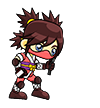
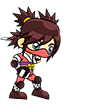
projeto mvp concluido

diff --git a/JS/canvas.js b/JS/canvas.js
@@ -1,17 +1,47 @@
 console.log('Salve!!!')
 let fundoImg = new Image();
 let playerImg = new Image();
+playerImg.src = '../Img/Attack__000.png';
 let enemyImg = new Image();
+let lifeImg = new Image();
+let attackImg = new Image();
+let gameOverimg= new Image();
+attackImg.src = '../Img/Attack__001.png'
 const canvas = document.getElementById('canvas');
 const context = canvas.getContext('2d');
 const enemies =[];
+let attackstatus = false;
+let zumbiswin = 0
+let frame = 0;
+let myReq;
 
 
 
 function fundo(){
     fundoImg.src = "../Img/fundo.jpg";
-    context.drawImage(fundoImg, 0, 0);  
+    context.drawImage(fundoImg, 0, 0); 
 }
+
+function drawLife(){
+  lifeImg.src='../Img/hearts.png';
+    context.drawImage(lifeImg,50,30)
+    lifeImg.src='../Img/hearts.png';
+    context.drawImage(lifeImg,150,30)
+    lifeImg.src='../Img/hearts.png';
+    context.drawImage(lifeImg,250,30)
+}
+
+function score() {
+  var points = Math.floor(frame / 10);
+  context.font = "18px serif";
+  context.fillStyle = "black";
+  context.fillText("Score: " + points, 700, 50);
+}
+
+  function drawGameOver(){
+    gameOverimg.src='../Img/gameover.png';
+    context.drawImage(gameOverimg, 0, 0)
+  }
 
 let ninja = new Ninja(300,400,80,107);
 
@@ -31,7 +61,7 @@ switch (e.keyCode) {
             ninja.eixoX = 5;
             console.log('Bateu!')
         } else {
-            ninja.eixoX -= 3;
+            ninja.eixoX -= 18;
         } console.log('left')
           break;
         case 39: // right arrow
@@ -42,22 +72,67 @@ switch (e.keyCode) {
         //     ninja.eixoX - enemy.eixoY;
         }
         else {
-            ninja.eixoX += 3;
+            ninja.eixoX += 10;
         } console.log('right')
           break;
+        case 32 : //space
+        attack()
+        break;
       }
       }
 
+function attack(){
+  attackstatus = true;
+  enemies.forEach(function(zumbi,idx){
+  if(zumbi.eixoX <= ninja.eixoX +110 && zumbi.eixoX >= ninja.eixoX +45){
+     zumbi.receiveDamage()
+     console.log(zumbi.life)
+     console.log(attackstatus)
+  }
+});
+  // attackstatus = false;
+}
 
-let frame = 0;
+function death(){
+  enemies.forEach(function(zumbi,idx){
+    if (zumbi.life == 0){
+      zumbi.eixoX = 1000
+    }
+  })
+}
+
+function gameOver(){
+  enemies.forEach(function(zumbi,idx){
+    if (zumbi.eixoX < -49 ){
+      zumbiswin +=1
+    }
+  });
+  if (zumbiswin >= 2){
+    console.log('GAME OVER')
+    drawGameOver()
+    return
+    cancelAnimationFrame(myReq);
+  }
+}
+
+
+
+
 
 function updateGameArea() {
+  console.log('Oii')
     fundo();
-    ninja.drawPlayer();
-    if(frame % 120 === 0){
+    drawLife();
+    if(attackstatus){
+      ninja.drawAttack();
+    } else {
+      ninja.drawPlayer(playerImg)
+    }
+    attackstatus = false
+    if(frame % 360 === 0){
         enemies.push(new Enemy(canvas.width,400,90,107));
     };
-    console.log(updateGameArea)
+    // console.log(updateGameArea)
     enemies.forEach(function(zumbi,idx) {
         zumbi.drawEnemy();
         zumbi.moving();
@@ -66,9 +141,11 @@ function updateGameArea() {
         }
     });
     
-    frame += 1;
-    requestAnimationFrame(updateGameArea);
+    frame += 2;
+    score()    
+    death()
+    myReq = requestAnimationFrame(updateGameArea);
+    gameOver()
   }
 
-  requestAnimationFrame(updateGameArea);
-  
+  myReq = requestAnimationFrame(updateGameArea);

diff --git a/JS/Ninja.js b/JS/Ninja.js
@@ -6,10 +6,13 @@ class Ninja{
         this.height = height;
     }
 
-    drawPlayer(){
-        playerImg.src = '../Img/Attack__000.png'
-        context.drawImage(playerImg, 0, 0, 70, this.height, this.eixoX, this.eixoY,this.width,this.height);
+    drawPlayer(imagem){
+        context.drawImage(imagem, 0, 0, 70, this.height, this.eixoX, this.eixoY,this.width,this.height);
      } 
+    drawAttack(){
+        attackImg.src = '../Img/Attack__001.png'
+        context.drawImage(attackImg, 0, 0, 70, this.height, this.eixoX, this.eixoY,this.width,this.height);
+    }
     
 }
 

diff --git a/JS/enemy.js b/JS/enemy.js
@@ -4,6 +4,8 @@ class Enemy{
         this.eixoY = y;
         this.width = width;
         this.height = height;
+        this.life = 3;
+
     }
 
     drawEnemy(){
@@ -11,7 +13,12 @@ class Enemy{
         context.drawImage(enemyImg,this.eixoX, this.eixoY,this.width,this.height);
     }
     moving(){
-        this.eixoX -= 1
+        this.eixoX -= 2.5
+    }
+    receiveDamage(){
+        this.life -= 1;
     }
 
+
 }
+// 
